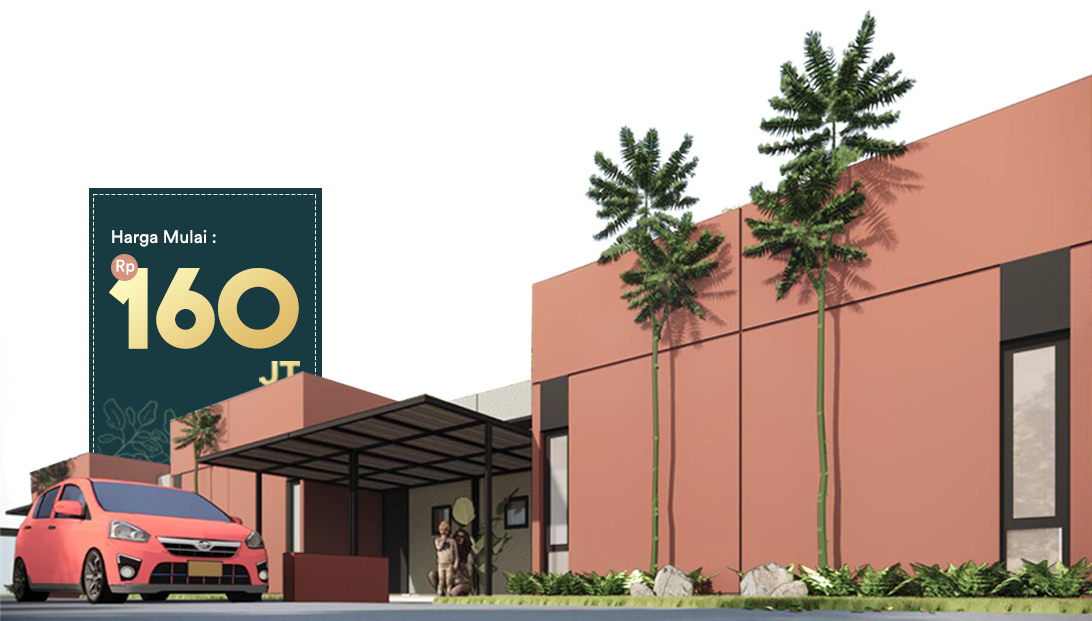
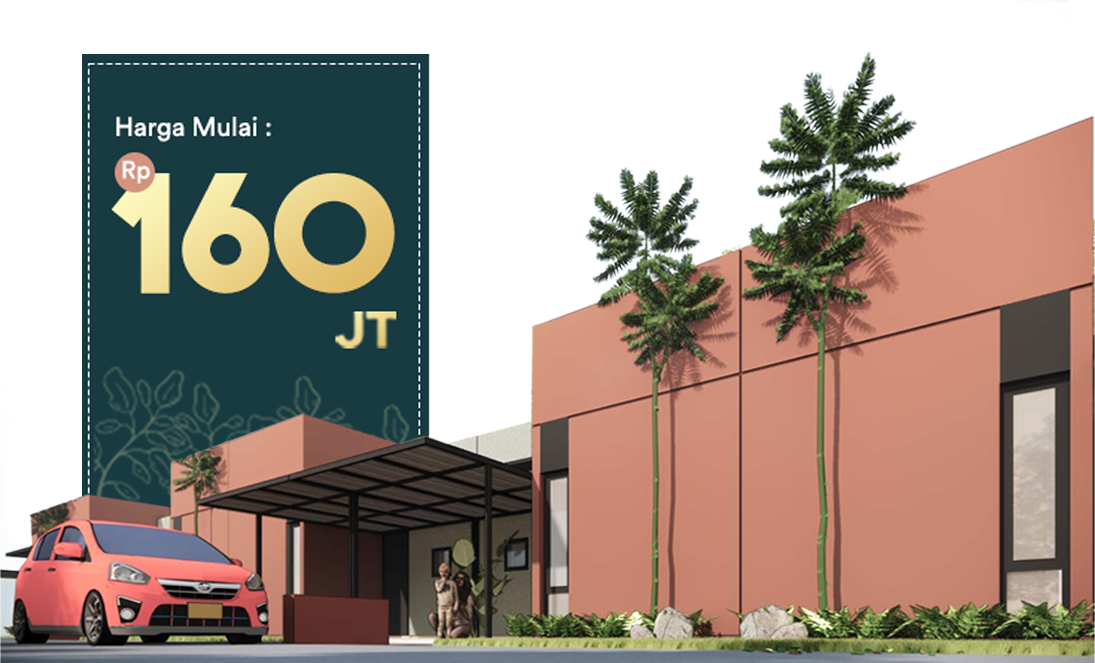
revisi

diff --git a/src/pages/Home.js b/src/pages/Home.js
@@ -8,6 +8,9 @@ import logo from '../assets/images/logo.png'
 import logo2 from '../assets/images/logo-qianzy.png'
 import peta from '../assets/images/peta.png'
 
+import pkanan from "../assets/images/pkanan.png"
+import pkiri from "../assets/images/pkiri.png"
+
 import foot1 from "../assets/images/foot1.png"
 import foot2 from "../assets/images/foot2.png"
 
@@ -26,21 +29,29 @@ function Home() {
               <div className='flex justify-center'>
                   <img src={logo} className="w-32 lg:w-auto" alt="" />
               </div>
-              <div className='font-medium text-5xl lg:text-7xl drop-shadow-[0_1.2px_1.2px_rgba(255,255,255)]'>Sekala Pasopati</div>
+              <div className='font-bold text-5xl lg:text-7xl drop-shadow-[0_1.2px_1.2px_rgba(255,255,255)]'>Sekala Pasopati</div>
             </div>
             <div className='space-y-1 lg:space-y-3'>
               <div>Perumahan Subsidi</div>
               <div>Dengan Konsep Modern Minimalis</div>
-              <div className='font-circular text-3xl font-semibold'>Type 30 x 60</div>
+              <div className='font-circular text-2xl lg:text-3xl font-semibold'>Type 30 x 60</div>
               <div>
-                <a href="https://api.whatsapp.com/send/?phone=6282120190862&text=Halo, Saya tertarik dengan Perumahan Sekala Pasopati, bisa memberi detailnya?" target="_blank" rel="noreferrer" className='bg-gradient-to-bl from-yellow-200 to-yellow-400 py-2 px-4 text-2xl rounded-full font-circular'>Hubungi Kami Sekarang</a>
+                <a href="https://api.whatsapp.com/send/?phone=6282120190862&text=Halo, Saya tertarik dengan Perumahan Sekala Pasopati, bisa memberi detailnya?" target="_blank" rel="noreferrer" className='bg-gradient-to-bl from-yellow-200 to-yellow-400 py-2 px-4 text-2xl font-semibold rounded-full font-circular'>Hubungi Kami Sekarang</a>
               </div>
             </div>
           </div>
         </div>
 
-        <div className='absolute bottom-0 w-full'>
+        <div className='absolute bottom-0 w-full z-20'>
           <img src={home} className="w-full" alt="" />
+        </div>
+
+        <div className='absolute right-0 top-0'>
+          <img src={pkanan} className="w-20 lg:w-52" alt="" />
+        </div>
+
+        <div className='absolute left-0 bottom-32 lg:bottom-64 z-0'>
+          <img src={pkiri} className="w-20 lg:w-52" alt="" />
         </div>
       </div>
 
@@ -50,7 +61,7 @@ function Home() {
             <h2 className='text-6xl'>Sekala Pasopati</h2>
             <p className='text-2xl'>Merupakan kawasan perumahan yang terletak di jantung kota Leles garut. Dengan lokasi yang strategis dan Desain Modern Minimalis, Menciptakan Lingkungan yang nyaman dan sehat bagi pada penghuninya</p>
             <div className='pt-5'>
-              <a href="https://api.whatsapp.com/send/?phone=6282120190862&text=Halo, Saya tertarik dengan Perumahan Sekala Pasopati, bisa memberi detailnya?" target="_blank" rel="noreferrer" className='bg-gradient-to-bl from-yellow-200 to-yellow-400 py-2 px-4 text-2xl rounded-full font-circular text-primary'>Saya Tertarik</a>
+              <a href="https://api.whatsapp.com/send/?phone=6282120190862&text=Halo, Saya tertarik dengan Perumahan Sekala Pasopati, bisa memberi detailnya?" target="_blank" rel="noreferrer" className='bg-gradient-to-bl from-yellow-200 to-yellow-400 py-2 px-4 text-2xl font-semibold rounded-full font-circular text-primary'>Saya Tertarik</a>
             </div>
           </div>
         </div>
@@ -128,7 +139,7 @@ function Home() {
               </div>
               <div className="w-full lg:w-1/2">
                 <div className="flex justify-center">
-                  <a href="https://api.whatsapp.com/send/?phone=6282120190862&text=Halo, Saya tertarik dengan Perumahan Sekala Pasopati, boleh minta brosurnya?" target="_blank" rel="noreferrer" className='text-black bg-gradient-to-bl from-yellow-200 to-yellow-400 py-2 px-4 text-2xl rounded-full font-circular'>Mintai Brosur</a>
+                  <a href="https://api.whatsapp.com/send/?phone=6282120190862&text=Halo, Saya tertarik dengan Perumahan Sekala Pasopati, boleh minta brosurnya?" target="_blank" rel="noreferrer" className='text-black bg-gradient-to-bl from-yellow-200 to-yellow-400 py-2 px-4 text-2xl font-semibold rounded-full font-circular'>Mintai Brosur</a>
                 </div>
               </div>
             </div>
@@ -157,7 +168,7 @@ function Home() {
             </div>
           </div>
           <div className='absolute bottom-20'>
-            <a href="https://api.whatsapp.com/send/?phone=6282120190862&text=Halo, Saya tertarik dengan Perumahan Sekala Pasopati, boleh minta katalognya?" target="_blank" rel="noreferrer" className='bg-gradient-to-bl from-yellow-200 to-yellow-400 py-2 px-4 text-2xl rounded-full font-circular text-primary'>Mintai Katalog</a>
+            <a href="https://api.whatsapp.com/send/?phone=6282120190862&text=Halo, Saya tertarik dengan Perumahan Sekala Pasopati, boleh minta katalognya?" target="_blank" rel="noreferrer" className='bg-gradient-to-bl from-yellow-200 to-yellow-400 py-2 px-4 text-2xl font-semibold rounded-full font-circular text-primary'>Mintai Katalog</a>
           </div>
         </div>
       </div>
@@ -180,7 +191,7 @@ function Home() {
               </div>
             </div>
             <div className='flex justify-center mt-20'>
-              <a href="https://api.whatsapp.com/send/?phone=6282120190862&text=Halo, Saya tertarik dengan Perumahan Sekala Pasopati, bisa memberi detailnya?" target="_blank" rel="noreferrer" className='bg-gradient-to-bl from-yellow-200 to-yellow-400 py-2 px-4 text-2xl rounded-full font-circular text-primary'>Hubungi Kami Sekarang</a>
+              <a href="https://api.whatsapp.com/send/?phone=6282120190862&text=Halo, Saya tertarik dengan Perumahan Sekala Pasopati, bisa memberi detailnya?" target="_blank" rel="noreferrer" className='bg-gradient-to-bl from-yellow-200 to-yellow-400 py-2 px-4 text-2xl font-semibold rounded-full font-circular text-primary'>Hubungi Kami Sekarang</a>
             </div>
           </div>
         </div>
